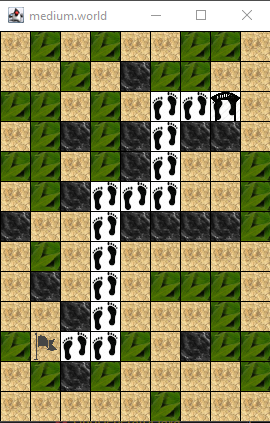
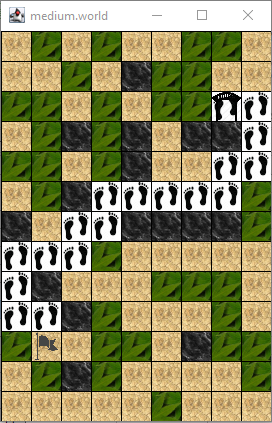
10.0
OfflineState.java:
Διάφορα σχόλια παντού.
αφαίρεση overide compare.
IsValidMove(): Ο τελευταίος έλεγχος παίρνει υπόψιν το κόστος του κελιού.
Astar(): Σορτάρισμα στις λίστες του. Δεν μπαίνει στην κλειστή λίστα το τέρμα. Το expected_cost δεν επιρεάζεται από το ηστορικό του μονοπατιού. Αλλαγή ελέγχου ότι υπάρχει ένα παιδί στην ανοιχτή λίστα.

Μετρήσεις και εικόνες:
Α* βέλτιστες.
LRTA* καλύτερες αλλά δεν είναι οι βέλτιστες.

Αναφορά:
Μέχρι DFS.

diff --git a/part-A/code/OfflineState.java b/part-A/code/OfflineState.java
@@ -1,5 +1,6 @@
 import java.util.ArrayList;
 import java.util.Arrays;
+import java.util.Comparator;
 import java.util.LinkedList;
 
 
@@ -8,7 +9,7 @@ public class OfflineState extends State
     private OfflineState parent;
     private LinkedList<OfflineState> children = new LinkedList<>();
 
-    // 8umatai tis pallies 8eseis giati den 8elw na ksanapernaei apo ta idia tetragwna sto idio monopati
+    // 8umatai tis 8eseis twn progonwn tou giati den 8elw na ksanapernaei apo ta idia tetragwna se ena monopati
     private ArrayList<Integer> old_positions_idx; 
     
     private int depth; // Deixnei poso ba8u exei ginei to dentro
@@ -75,20 +76,6 @@ public class OfflineState extends State
         pos_min_cost[ this.position_idx ] = parent.accumulated_cost;
 
         num_states++;
-    }
-
-    // idia 8esh
-    @Override
-    public boolean equals( Object obj )
-    {
-        if ( !(obj instanceof OfflineState) )
-            return false; 
-        
-        OfflineState other = (OfflineState) obj;
-        if ( this.position_idx != other.position_idx )
-            return false;
-
-        return true;
     }
 
 
@@ -190,7 +177,7 @@ public class OfflineState extends State
             parent.CreateChildren();
 
             int num_children =  parent.children.size();
-            // elenxw ola ta paidia an einai o stoxos. An einai to epistrefw, alliws mpainoun sto frontier
+            // elenxw ola ta paidia an einai o stoxos. An einai to krataw, alliws mpainoun sto frontier
             for( int i = 0 ; i < num_children ; i++ )
             {
                 if ( parent.children.getFirst().IsGoalState() )
@@ -245,7 +232,9 @@ public class OfflineState extends State
 
     public OfflineState Astar()
     {
+        // krataei ta states pou exoun eksereunh8ei, alla den exoun eksereunh8ei oi geitones tou
         LinkedList<OfflineState> open_list = new LinkedList<OfflineState>();
+        // krataei ta states pou exoun eksereunh8ei, kai den exoun eksereunh8ei oi geitones tou
         LinkedList<OfflineState> closed_list = new LinkedList<OfflineState>();
 
         // bazei to root sthn anoixth lista
@@ -253,8 +242,9 @@ public class OfflineState extends State
         OfflineState goal_state = null;
         while ( !open_list.isEmpty() )
         {
+            // sunexizw to psaksimo apo to pio f8hno
+            open_list.sort( Comparator.comparing(OfflineState::getAccumulated_cost));
             OfflineState parent = open_list.remove();
-            closed_list.add( parent );
 
             // eftase ton stoxo
             if ( parent.IsGoalState() )
@@ -264,12 +254,17 @@ public class OfflineState extends State
                 else if ( goal_state.accumulated_cost > parent.accumulated_cost ) // exei brei kalutero
                     goal_state = parent;
             }
+            else // den bazw sthn klisth lista tous kombous sto terma gia na psaksei f8inoteres luseis
+            {
+                closed_list.add( parent );
+            }
 
             // ftiaxnei paidia
             parent.CreateChildren();
+            parent.children.sort( Comparator.comparing(OfflineState::getAccumulated_cost));
 
             int num_children =  parent.children.size();
-            for ( int i = 0 ; i < num_children ; i++ )
+ child_loop:for ( int i = 0 ; i < num_children ; i++ )
             {
                 OfflineState child = parent.children.removeFirst();
 
@@ -279,17 +274,21 @@ public class OfflineState extends State
 
                 // upologismos expected kostous
                 int heuristic_cost = ManhattanDistance( IdxToPos( child.position_idx , grid.getNumOfColumns() ) , grid.getTerminal() );
-                child.expected_cost = child.accumulated_cost + heuristic_cost;
+                child.expected_cost = child.accumulated_cost - parent.accumulated_cost + heuristic_cost;
 
-                int index = open_list.indexOf( child );
-                // h 8esh einai sthn anoixth lista
-                if ( index != -1 )
+                int k = 0;
+                while( k < open_list.size() )
                 {
-                    // sth lista exei f8inotero monopati ara thn agnow
-                    if ( child.expected_cost > open_list.get( index ).expected_cost )
-                        continue;
-                    else // sth lista exei akribotero monopati kai thn antika8istw
-                        open_list.remove(index);
+                    if ( child.position_idx == open_list.get(k).position_idx )
+                    {
+                        // sth lista exei f8inotero monopati ara thn agnow
+                        if ( child.expected_cost >= open_list.get( k ).expected_cost )
+                            continue child_loop;
+                        else // sth lista exei akribotero monopati kai thn antika8istw
+                            open_list.remove( k );                 
+                    }
+                    else
+                        k++;
                 }
                 // mpainei to paidi sthn lista
                 open_list.add( child );

diff --git a/part-A/code/OnlineState.java b/part-A/code/OnlineState.java
@@ -175,8 +175,16 @@ public class OnlineState extends State
                 continue;
             }
             // an phge se xorta kai den exei ekserevnisei tous ipoloipous geitones paei pisw
-            else if ( first_time == true && grid.getCell( current_pos[0] , current_pos[1] ).isGrass()
+            else if ( grid.getCell( current_pos[0] , current_pos[1] ).isGrass()
                     && !state_map[ old_pos[0] ][ old_pos[1] ].IsFullyExplored( old_pos , valid_actions ) )
+            {
+                current_pos[0] = old_pos[0];
+                current_pos[1] = old_pos[1];
+                current_state = state_map[ current_pos[0] ][ current_pos[1] ];
+                num_moves++;
+                continue;
+            }
+            else if (first_time == true && grid.getCell( current_pos[0] , current_pos[1] ).isGrass())
             {
                 current_pos[0] = old_pos[0];
                 current_pos[1] = old_pos[1];
@@ -227,10 +235,11 @@ public class OnlineState extends State
         return true;
     }
 
-    /* Ka8arizei apo to monopati ta loops. Epishs Epistrefei to kostos tou telikou monopatiou */
+    /* Ka8arizei apo to monopati ta loops kai briskei parakampseis. Epishs Epistrefei to kostos tou telikou monopatiou */
     public int ExtractPath()
     {
-        int i = 0 ;
+        // cut loops
+        int i = 0;
         while (  i < positions_history.size() - 1)
         {
             boolean brhke = false;
@@ -240,6 +249,41 @@ public class OnlineState extends State
                 {
                     brhke = true;
                     positions_history.subList(i,j).clear();
+                }
+            }
+            // afereitai to prwto loop pou ksekinaei apo auto to shmeio. Ksanaelenxetai giati mporei na exei kai alla
+            if ( !brhke )
+                i++;
+        }
+
+        // find bypasses
+        i = 0;
+        while (  i < positions_history.size() - 1)
+        {
+            boolean brhke = false;
+            for ( int j = i + 2 ; j < positions_history.size() - 1 ; j++ )
+            {
+                int [] pos1 = {0,1};
+                int [] pos2 = {1,0};
+                if(positions_history.get(i).intValue() == positions_history.get(j).intValue() + PosToIdx( pos1 , grid.getNumOfColumns() ) )
+                {
+                    brhke = true;
+                    positions_history.subList(i+1,j).clear();
+                }
+                else if (positions_history.get(i).intValue() == positions_history.get(j).intValue() - PosToIdx( pos1 , grid.getNumOfColumns() ) )
+                {
+                    brhke = true;
+                    positions_history.subList(i+1,j).clear();
+                }
+                else if (positions_history.get(i).intValue() == positions_history.get(j).intValue() + PosToIdx( pos2 , grid.getNumOfColumns() ) )
+                {
+                    brhke = true;
+                    positions_history.subList(i+1,j).clear();
+                }
+                else if (positions_history.get(i).intValue() == positions_history.get(j).intValue() - PosToIdx( pos2 , grid.getNumOfColumns() ) )
+                {
+                    brhke = true;
+                    positions_history.subList(i+1,j).clear();
                 }
             }
             // afereitai to prwto loop pou ksekinaei apo auto to shmeio. Ksanaelenxetai giati mporei na exei kai alla
